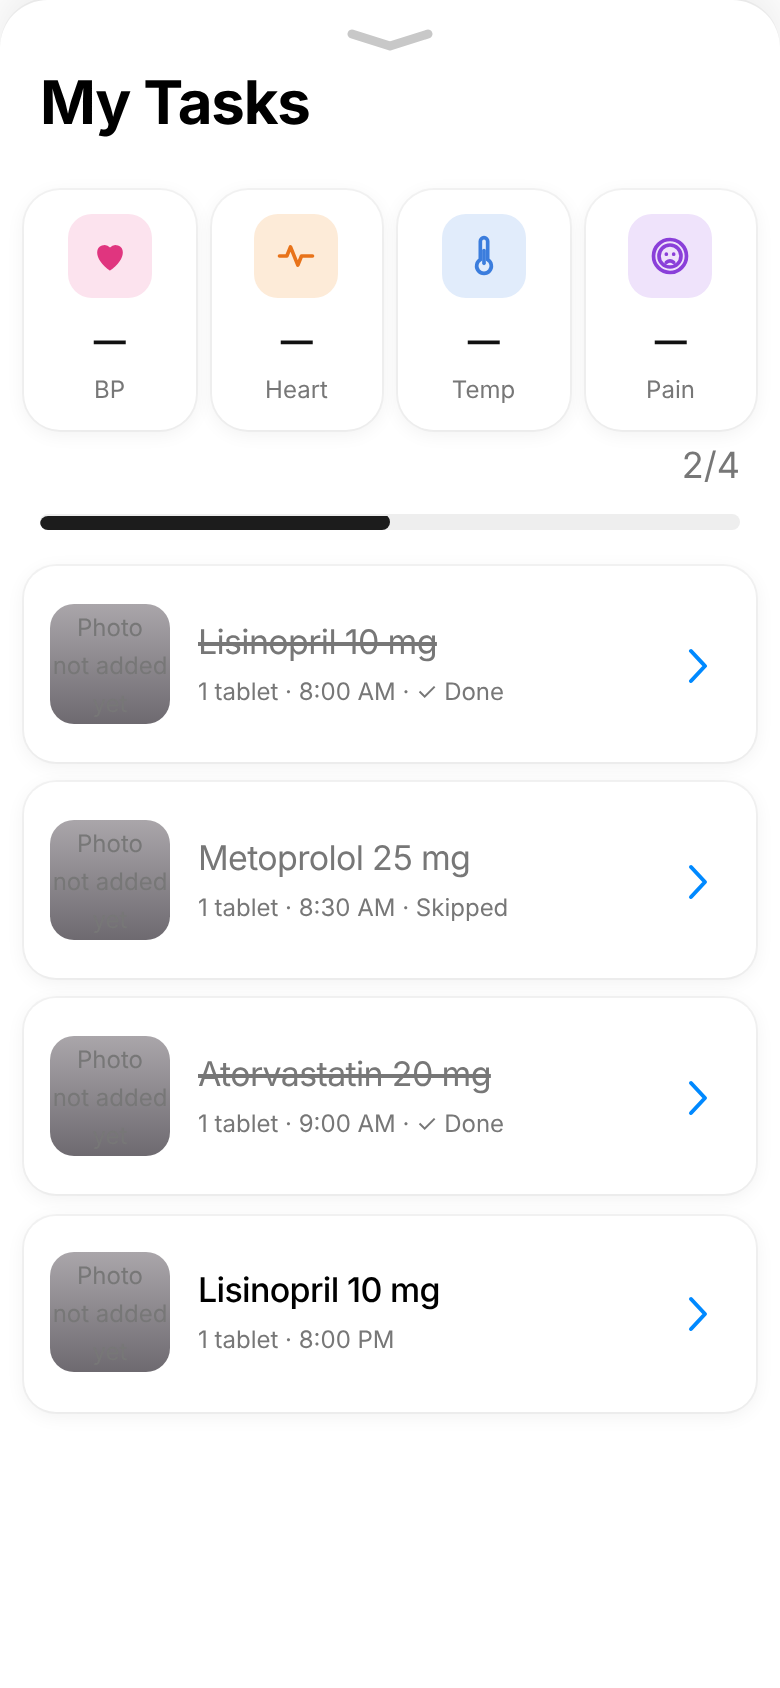
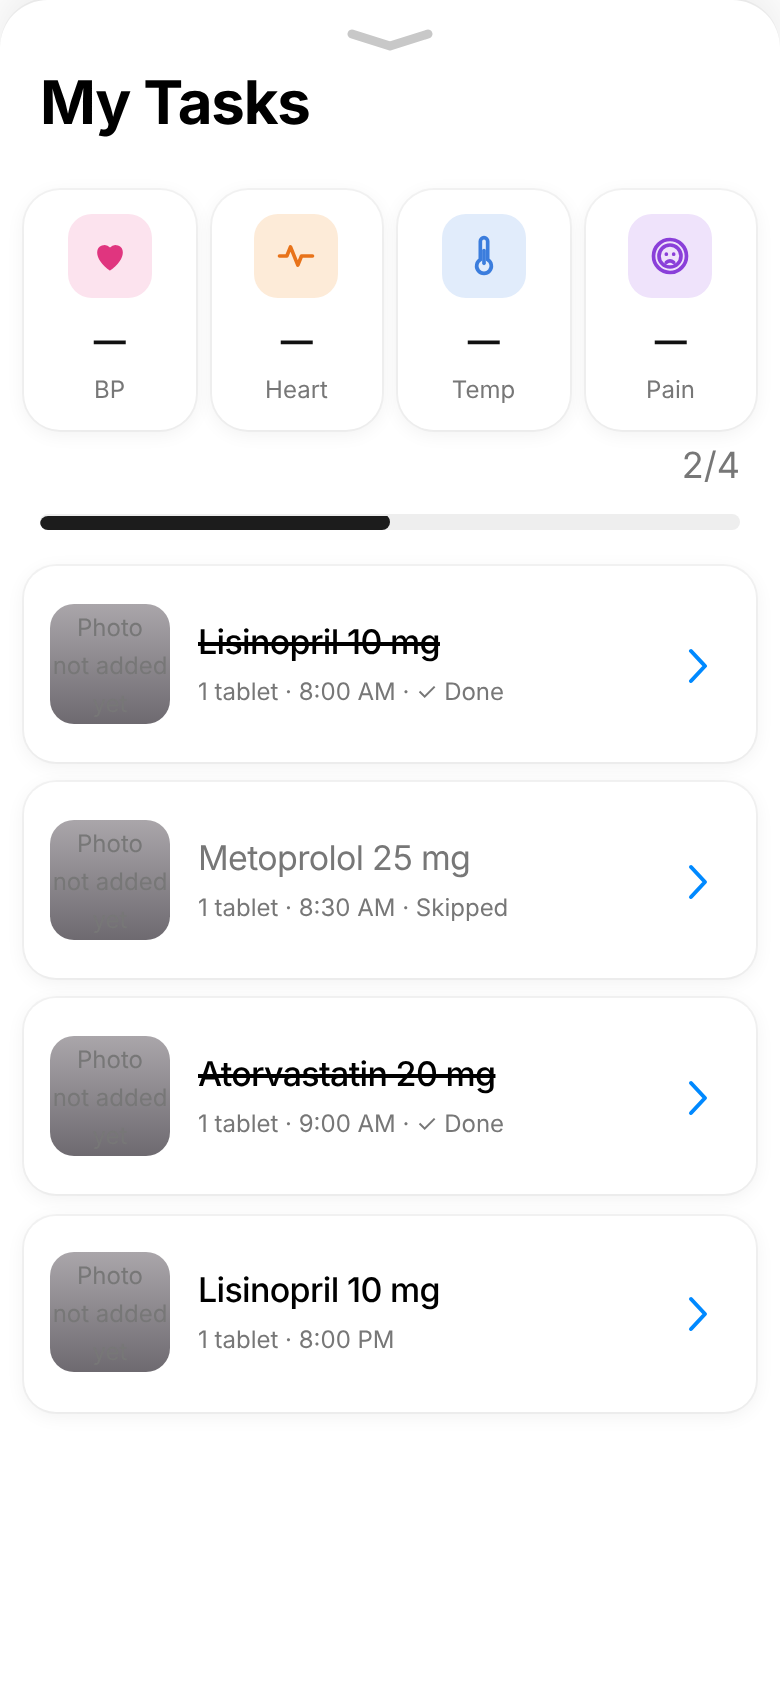
My Tasks: a finished task keeps its dark lettering, with the line through it
Claude-Session: https://claude.ai/code/session_017USKdpXkGFWWPfz4CQxcZY

Changed region(s): [[0.2462, 0.6161, 0.6462, 0.6469], [0.2462, 0.3697, 0.5846, 0.4005]]

diff --git a/sw.js b/sw.js
@@ -1,6 +1,6 @@
 /* Adltrack service worker: keeps the app shell for offline starts, shows daily reminders sent by Web Push while the app is
    closed with their action buttons, and opens the item's Return step when one is tapped. Account data (/api/) is never cached here. */
-const SHELL = 'returnly-shell-v11';
+const SHELL = 'returnly-shell-v12';
 const SHELL_FILES = ['app.html', 'index.html', 'signin.html', 'signup.html', 'forgot.html', 'reset.html', 'email.html', 'style.css', 'on.css', 'klarna.css', 'precision.css', 'guided.css', 'home.css', 'menu.css', 'mobile.css', 'landing.css', 'type.css',
   'core.js', 'nudge.js', 'account.js', 'auth.js', 'app.js', 'features.js', 'klarna.js', 'precision.js', 'guided.js', 'home.js', 'schedule.js', 'refills.js', 'menu.js', 'push.js', 'remind.js', 'today.js', 'report.js', 'landing.js', 'oracle.woff2', 'assets/roboto-serif-light.woff2', 'assets/inter-var.woff2',
   'manifest.webmanifest', 'assets/icon-192.png', 'assets/icon-512.png', 'assets/apple-touch-icon.png'];

diff --git a/home.css b/home.css
@@ -181,5 +181,6 @@ body.not-home #main>.sub-page>.sub-title{margin-top:8px}
 body.not-home #main>.profile-hero{display:none}
 body.not-home #main .page-heading .eyebrow{display:none}
 body.not-home #main>.page-heading{margin-top:0}
-/* My Tasks: a finished task is struck through. The daily report is not, so it reads cleanly. */
-.tasks-sheet .today-row.is-done .today-what strong{text-decoration:line-through;text-decoration-thickness:1.5px}
+/* My Tasks: a finished task keeps its name as written, dark, with a line through it. The daily report has no lines, so it
+   reads cleanly. */
+.tasks-sheet .home-today .today-row.is-done .today-what strong{color:#000;font-weight:500;text-decoration:line-through;text-decoration-thickness:1.5px}
